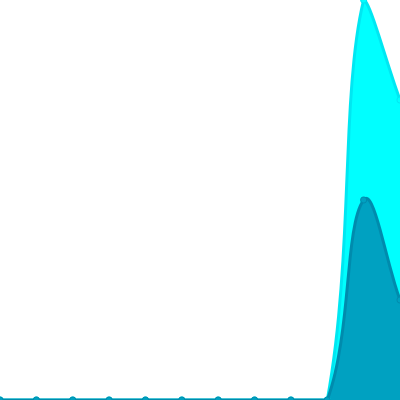
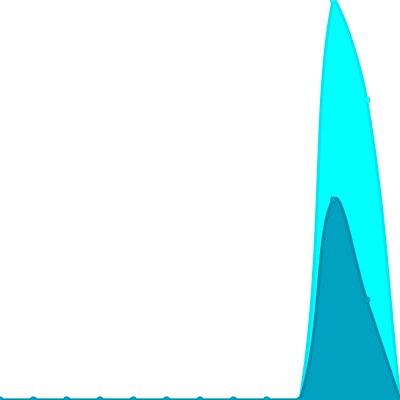
Update views

diff --git a/README.md b/README.md
@@ -26,7 +26,7 @@ The project created and maintained by [gayanvoice](https://github.com/gayanvoice
 			</a>
 		</td>
 		<td>
-			2022/5/30 12:38 AM UTC
+			2022/5/31 12:33 AM UTC
 		</td>
 		<td>
 			3
@@ -37,7 +37,7 @@ The project created and maintained by [gayanvoice](https://github.com/gayanvoice
 	</tr>
 </table>
 
-<small><i>Last updated on 2022/6/1 6:08 PM UTC</i></small>
+<small><i>Last updated on 2022/6/2 12:39 AM UTC</i></small>
 
 ## ✂Copy and 📋 Paste
 ### Total Views Badge

diff --git a/readme/279336970/year.md b/readme/279336970/year.md
@@ -20,6 +20,17 @@
 	</tr>
 	<tr>
 		<td>
+			<code>2022/6/1</code>
+		</td>
+		<td>
+			<code>0</code>
+		</td>
+		<td>
+			<code>0</code>
+		</td>
+	</tr>
+	<tr>
+		<td>
 			<code>2022/5/1</code>
 		</td>
 		<td>
@@ -153,7 +164,7 @@
 </table>
 
 </details>
-<small><i>Last updated on 2022/6/1 6:08 PM UTC</i></small>
+<small><i>Last updated on 2022/6/2 12:39 AM UTC</i></small>
 
 ## ✂Copy and 📋 Paste
 ### SVG Badge
